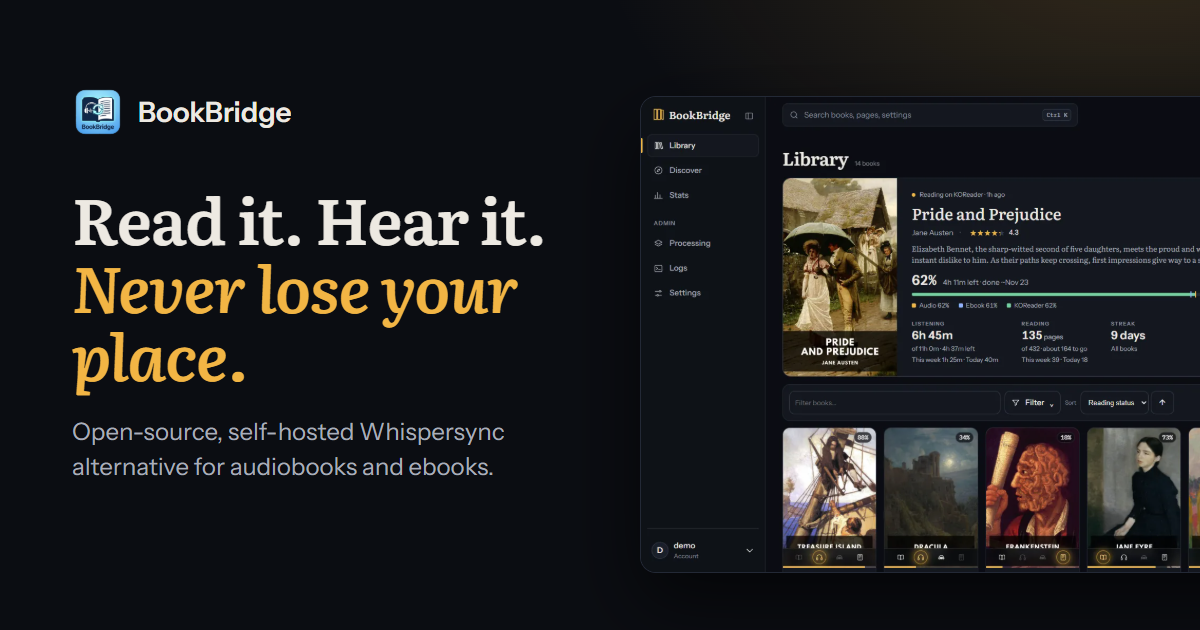
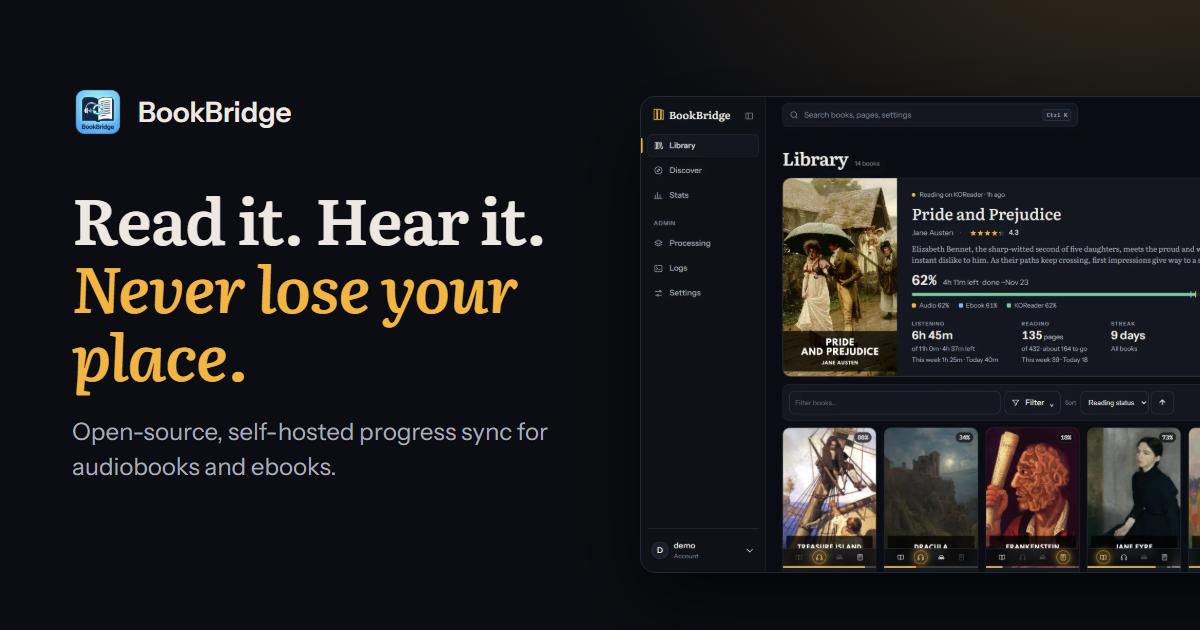
[Docs] Plain wording on the home and book journey pages; Whispersync named once with a trademark note

Changed region(s): [[0.0617, 0.6635, 0.4625, 0.754]]

diff --git a/overrides/home.html b/overrides/home.html
@@ -9,9 +9,9 @@
   <section class="bb-hero">
     <div class="bb-wrap bb-hero__grid">
       <div>
-        <p class="bb-kicker">Audiobooks and ebooks, in step</p>
+        <p class="bb-kicker">Audiobook and ebook progress sync</p>
         <h1 id="bookbridge">Read it. Hear it.<br><em>Never lose your place.</em></h1>
-        <p class="bb-lede">Switch between the audiobook and the ebook of the same book, across the apps you already use. BookBridge is an open-source, self-hosted alternative to Amazon's Whispersync.</p>
+        <p class="bb-lede">Switch between the audiobook and the ebook of the same book, across the apps you already use. Open source and self-hosted.</p>
         <div class="bb-cta">
           <a class="bb-btn bb-btn--primary" href="{{ 'getting-started/' | url }}">Get started {% include ".icons/material/arrow-right.svg" %}</a>
           <a class="bb-btn" href="{{ config.repo_url }}">{% include ".icons/material/github.svg" %} View on GitHub</a>
@@ -31,23 +31,23 @@
     <div class="bb-wrap">
       <div class="bb-head">
         <p class="bb-kicker">How it works</p>
-        <h2>Your place, carried from one app to the next.</h2>
+        <h2>Each linked app gets your latest position.</h2>
         <p>BookBridge lines up the audiobook with the text of its ebook, so a minute in one is a page in the other.</p>
       </div>
       <div class="bb-steps">
         <div class="bb-step">
           <span class="bb-step__icon">{% include ".icons/material/headphones.svg" %}</span>
-          <h3>Listen or read anywhere</h3>
+          <h3>Listen or read in a linked app</h3>
           <p>Play the audiobook in Audiobookshelf or BookOrbit, or read the ebook in KOReader, a Kobo or a web reader.</p>
         </div>
         <div class="bb-step">
           <span class="bb-step__icon">{% include ".icons/material/waveform.svg" %}</span>
-          <h3>BookBridge finds the spot</h3>
+          <h3>BookBridge finds the matching position</h3>
           <p>Its alignment map turns a timestamp into a place in the text, and a place in the text back into a timestamp.</p>
         </div>
         <div class="bb-step">
           <span class="bb-step__icon">{% include ".icons/material/book-open-page-variant.svg" %}</span>
-          <h3>Pick up in the other format</h3>
+          <h3>Continue in the other format</h3>
           <p>Every linked app gets the new position, so the next one you open is already where you stopped.</p>
         </div>
       </div>
@@ -72,7 +72,7 @@
         </svg>
         <figcaption>Built-in forced alignment, with Whisper, EPUB timing data and Storyteller transcripts as fallbacks.</figcaption>
       </figure>
-      <p class="bb-more"><a class="bb-btn" href="{{ 'book-journey/' | url }}">Follow a book from new to in sync {% include ".icons/material/arrow-right.svg" %}</a></p>
+      <p class="bb-more"><a class="bb-btn" href="{{ 'book-journey/' | url }}">How a new book gets synced {% include ".icons/material/arrow-right.svg" %}</a></p>
     </div>
   </section>
 
@@ -80,7 +80,7 @@
     <div class="bb-wrap">
       <div class="bb-head">
         <p class="bb-kicker">The dashboard</p>
-        <h2>A library worth opening.</h2>
+        <h2>Your library and reading progress.</h2>
         <p>Shown with a demo library of public-domain classics.</p>
       </div>
       <figure class="bb-show__hero">
@@ -112,7 +112,7 @@
     <div class="bb-wrap">
       <div class="bb-head">
         <p class="bb-kicker">What it does</p>
-        <h2>Everything your books need to stay in step.</h2>
+        <h2>Sync, alignment, highlights and more.</h2>
       </div>
       <div class="bb-cards">
         <div class="bb-card">
@@ -137,12 +137,12 @@
         </div>
         <div class="bb-card">
           <span class="bb-card__icon">{% include ".icons/material/compass-outline.svg" %}</span>
-          <h3>Discover pairs for you</h3>
+          <h3>Finds audiobook and ebook pairs</h3>
           <p>Discover scans your libraries for audiobook and ebook pairs, so you can review and link them in bulk.</p>
         </div>
         <div class="bb-card">
           <span class="bb-card__icon">{% include ".icons/material/account-group.svg" %}</span>
-          <h3>One server for the household</h3>
+          <h3>Multiple readers</h3>
           <p>Each reader signs in with their own app accounts and their own progress, even when two people share a book.</p>
         </div>
       </div>
@@ -153,7 +153,7 @@
     <div class="bb-wrap">
       <div class="bb-head">
         <p class="bb-kicker">Works with</p>
-        <h2>The apps you already use.</h2>
+        <h2>Supported apps.</h2>
         <p>Every one is optional. Ebook-only setups work too, keeping two reading apps on the same page.</p>
       </div>
       <div class="bb-apps">
@@ -180,15 +180,15 @@
   <section>
     <div class="bb-wrap bb-compare">
       <div>
-        <p class="bb-kicker">Why not Whispersync?</p>
-        <h2>Whispersync, for the books you already own.</h2>
+        <p class="bb-kicker">Your own files</p>
+        <h2>Works with the books you already own.</h2>
       </div>
       <div class="bb-compare__body">
-        <p>Amazon's Whispersync for Voice switches between a Kindle book and its Audible audiobook, when you bought both from Amazon and the editions match. BookBridge does the same job for your own files.</p>
+        <p>Amazon's Whispersync for Voice does this for a Kindle book and its Audible audiobook bought from Amazon. BookBridge does it for audiobook and ebook files you already have.</p>
         <ul style="margin-top: 1.2rem">
-          <li>{% include ".icons/material/check.svg" %}<span><b>Your files, any store.</b> Audiobooks and EPUBs from anywhere; the alignment comes from the audio and text themselves.</span></li>
-          <li>{% include ".icons/material/check.svg" %}<span><b>Your server.</b> Runs in Docker at home. No Amazon account, no cloud service in between.</span></li>
-          <li>{% include ".icons/material/check.svg" %}<span><b>Your readers.</b> KOReader, Kobo, web readers and audiobook apps, side by side.</span></li>
+          <li>{% include ".icons/material/check.svg" %}<span>Audiobooks and EPUBs from any store. The alignment is built from the audio and text themselves.</span></li>
+          <li>{% include ".icons/material/check.svg" %}<span>Runs on your own server in Docker, with no cloud service in between.</span></li>
+          <li>{% include ".icons/material/check.svg" %}<span>Works with KOReader, Kobo, web readers and audiobook apps.</span></li>
         </ul>
       </div>
     </div>
@@ -199,7 +199,7 @@
       <div>
         <div class="bb-head" style="margin-bottom: 1.6rem">
           <p class="bb-kicker">Install</p>
-          <h2>Up and running in minutes.</h2>
+          <h2>Installation.</h2>
         </div>
         <ol>
           <li><div><h3>Add it to Docker Compose</h3><p>One container, one data folder, and your ebook folder.</p></div></li>
@@ -225,8 +225,8 @@
 
   <section class="bb-final">
     <div class="bb-wrap">
-      <h2>Never lose your place again.</h2>
-      <p>Free, open source and yours to run.</p>
+      <h2>Free and open source.</h2>
+      <p>MIT licensed. Runs on your own server.</p>
       <div class="bb-cta">
         <a class="bb-btn bb-btn--primary" href="{{ 'getting-started/' | url }}">Get started {% include ".icons/material/arrow-right.svg" %}</a>
         <a class="bb-btn" href="{{ config.repo_url }}/releases">Releases</a>

diff --git a/scripts/readme_screenshots/og-card.html b/scripts/readme_screenshots/og-card.html
@@ -21,7 +21,7 @@
   <div class="copy">
     <div class="brand"><img src="../../static/icon-192.png" alt="">BookBridge</div>
     <h1>Read it. Hear it.<br><em>Never lose your place.</em></h1>
-    <p>Open-source, self-hosted Whispersync alternative for audiobooks and ebooks.</p>
+    <p>Open-source, self-hosted progress sync for audiobooks and ebooks.</p>
   </div>
   <img class="shot" src="../../docs/assets/site/library.webp" alt="">
 </body></html>

diff --git a/docs/stylesheets/extra.css b/docs/stylesheets/extra.css
@@ -355,7 +355,7 @@
   .bb-btn:hover { transform: none; }
 }
 
-/* From new book to in sync: the four-stop flow */
+/* How a new book gets synced: the four-stop flow */
 .md-typeset .bb-flow { display: grid; grid-template-columns: repeat(4, minmax(0, 1fr)); gap: 1.4rem; margin: 1.4em 0 0.8em; }
 .md-typeset .bb-flow__stop {
   position: relative; background: var(--bb-surface); border: 1px solid var(--bb-line);

diff --git a/docs/book-journey.md b/docs/book-journey.md
@@ -1,69 +1,69 @@
 ---
 hide:
   - toc
-description: "Follow a book from the moment you pair it to the moment every app is in step, including a missing half fetched for you."
+description: "What happens from pairing an audiobook with its ebook until every app shows the same position, including requesting a missing audiobook or ebook."
 ---
 
-# From new book to in sync
+# How a new book gets synced
 
-What happens between choosing a book and picking up your audiobook at the page you stopped reading.
+The steps from pairing an audiobook with its ebook to having both in sync.
 
 <div class="bb-flow" markdown>
 <div class="bb-flow__stop" markdown>
 :material-bookshelf:{ .bb-flow__icon }
 
-**Pick a pair**
+**Pair**
 
-An audiobook and the ebook that goes with it.
+An audiobook and its matching ebook.
 </div>
 <div class="bb-flow__stop" markdown>
 :material-timer-sand:{ .bb-flow__icon }
 
-**Wait your turn**
+**Queue**
 
-Books line up, one at a time, in the order you choose.
+Books are processed one at a time, in the order you choose.
 </div>
 <div class="bb-flow__stop" markdown>
 :material-waveform:{ .bb-flow__icon }
 
-**Line them up**
+**Align**
 
-Every minute of audio is matched to its place in the text.
+The audio is matched to its position in the text.
 </div>
 <div class="bb-flow__stop" markdown>
 :material-book-sync:{ .bb-flow__icon }
 
-**In sync**
+**Sync**
 
-Every app picks up where you left off.
+Each linked app gets your current position.
 </div>
 </div>
 
 <div class="bb-flow__side" markdown>
-:material-tray-arrow-down:{ .bb-flow__icon } **Missing half?** BookBridge fetches it from BookOrbit or Shelfmark, and it joins the line when it arrives.
+:material-tray-arrow-down:{ .bb-flow__icon } **Missing the audiobook or ebook?** BookBridge can request it from BookOrbit or Shelfmark and queues it when it arrives.
 </div>
 
-## Pick a pair
+## Pair
 
 Discover suggests audiobooks and ebooks that look like the same book. Add the ones you want to the queue, then press **Match All**. You can also search for any book yourself.
 
 ![Discover suggesting pairs, with the queue beside them](assets/guide/journey-pairs.webp){ .bb-shot loading=lazy }
 
-## Missing a half?
+## Request a missing audiobook or ebook
 
-Have the ebook but not the audiobook, or the other way round? Ask for it from Discover. BookBridge requests it from BookOrbit or Shelfmark, waits for it to land in your library, makes sure it is the right book and edition, and pairs it with your copy. From there it joins the line like any other book.
+If you have only the ebook or only the audiobook, you can request the other from Discover. BookBridge requests it from BookOrbit or Shelfmark, waits for it to land in your library, makes sure it is the right book and edition, and pairs it with your copy. It then goes into the queue like any other book.
 
 ![Asking for the missing audiobook of a book you already have](assets/guide/journey-get.webp){ .bb-shot loading=lazy width="440" }
 
-## Wait your turn
+## Queue
 
-**Processing** shows every book in line. BookBridge works on one book at a time so your server never gets swamped. Change the order whenever you like: move a waiting book up, down or straight to the front, and the one you want most is done next. A book with only an ebook or only an audiobook has nothing to line up, so it is ready almost straight away. If something goes wrong, BookBridge tries again later on its own.
+**Processing** lists every queued book. BookBridge works on one book at a time to limit the load on your server. You can reorder waiting books: move one up, down or to the front. A book with only an ebook or only an audiobook needs no alignment and is ready almost immediately. If a step fails, BookBridge retries it later.
 
 ![Processing: one book being worked on, two waiting, one finished](assets/guide/journey-processing.webp){ .bb-shot loading=lazy width="600" }
 
-## Line them up
+## Align
 
-BookBridge plays the audiobook against the ebook's text and notes where each word is spoken. That gives it a map from any minute of audio to the matching spot in the book, and back again.
+BookBridge compares the audiobook with the ebook's text and records where each word is spoken. The result is a map from any point in the audio to the matching position in the text, and back.
 
 <figure class="bb-align">
   <svg viewBox="0 0 640 150" role="img" aria-label="An audio waveform with its playback position linked to the matching line of ebook text">
@@ -108,15 +108,15 @@ BookBridge plays the audiobook against the ebook's text and notes where each wor
   <figcaption>A moment in the audiobook, tied to its line in the ebook.</figcaption>
 </figure>
 
-- **Fast match first.** BookBridge matches the sound of the narration straight to the words on the page. It runs on your server's own processor, with no graphics card or extra services needed.
-- **Listening as a backup.** If the book isn't in English, the narrator strays from the text, or the chapters are read in a different order, BookBridge writes down what it hears with Whisper and matches those words instead.
-- **No wrong pairs.** If the audiobook and ebook turn out to be different books, it stops and tells you instead of syncing you to the wrong place.
-- **A good neighbour.** It uses only the processor cores your server gives BookBridge, and at most eight, so everything else on the server keeps running smoothly. A long book can take a while; a transcription that is interrupted carries on from where it stopped.
+- **Forced alignment (default).** BookBridge matches the narration directly against the ebook text. It runs on your server's CPU and needs no GPU or extra services.
+- **Transcription (fallback).** For books not in English, narration that differs from the text, or chapters read in a different order, BookBridge transcribes the audio with Whisper and matches the transcript instead.
+- **Mismatch check.** If the audiobook and ebook are different books, BookBridge stops and reports it instead of syncing to the wrong position.
+- **CPU use.** Alignment uses only the CPU cores available to BookBridge, up to eight, so other services on the server are not starved. Long books can take a while; an interrupted transcription resumes where it stopped.
 
-## In sync
+## Sync
 
-Once the map is ready, the book is in sync. Read a chapter on your e-reader and your audiobook app is waiting at the same sentence, and the other way round. The book shows where you are in every app.
+Once the map is ready, the book syncs. After you read on your e-reader, your audiobook app resumes at the same sentence, and the other way round. The book drawer shows your position in each app.
 
 ![A book showing its position in each linked app](assets/site/book-drawer.webp){ .bb-shot loading=lazy }
 
-Ready to set it up? Start with [Install and first sync](getting-started.md).
+To set it up, see [Install and first sync](getting-started.md).

diff --git a/README.md b/README.md
@@ -6,7 +6,7 @@
 
 **Read it. Hear it. Never lose your place.**
 
-Switch between your audiobook and your ebook across the apps you already use.<br>An open-source, self-hosted alternative to Amazon's Whispersync.
+Switch between your audiobook and your ebook across the apps you already use.<br>Open source and self-hosted.
 
 [![Documentation](https://img.shields.io/badge/docs-live-blue)](https://cporcellijr.github.io/bookbridge/)
 [![License](https://img.shields.io/github/license/cporcellijr/bookbridge)](LICENSE)
@@ -22,7 +22,7 @@ Switch between your audiobook and your ebook across the apps you already use.<br
 
 Listen in Audiobookshelf on the drive home, then open the book in KOReader and it is already where you stopped. Read a few chapters before bed, and the audiobook picks up from there in the morning.
 
-BookBridge lines up the audio with the text itself, so it works with the audiobook and EPUB files you already own. It runs on your own server in Docker: no Amazon account and no cloud service in between. Ebook-only setups work too, keeping two or more reading apps on the same page.
+Amazon's Whispersync for Voice does this for a Kindle book and its Audible audiobook bought from Amazon. BookBridge lines up the audio with the text itself, so it works with the audiobook and EPUB files you already have. It runs on your own server in Docker, with no cloud service in between. Ebook-only setups work too, keeping two or more reading apps on the same page.
 
 ## What it does
 
@@ -44,13 +44,13 @@ Forced alignment matches each audiobook against its ebook on the CPU and finds e
 <tr>
 <td valign="top">
 
-**Works with the apps you already use**<br>
+**Works with your apps**<br>
 Audiobookshelf, KOReader, BookOrbit, Grimmory, Storyteller, Kavita, Calibre-Web Automated and BookFusion, with Hardcover and StoryGraph for tracking. Discover scans them for audiobook and ebook pairs you can link in bulk.
 
 </td>
 <td valign="top">
 
-**A library worth opening**<br>
+**Library and dashboard**<br>
 An optional card for the book you are reading now, with its synopsis, listening and reading stats and your streak. Browse as Cards, Face-out shelves, Spine shelves or List, in Day or Night, or keep the Classic interface.
 
 </td>
@@ -64,7 +64,7 @@ With the Bridge Sync KOReader plugin, highlights, notes, reading status and read
 </td>
 <td valign="top">
 
-**One server for the whole household**<br>
+**Multiple readers**<br>
 Each reader signs in with their own service accounts and their own progress, and sees only the books they are reading, even when two people share a book.
 
 </td>
@@ -221,3 +221,5 @@ BookBridge began as a fork of [abs-kosync-bridge](https://github.com/J-Lich/abs-
 ## License
 
 Released under the [MIT License](LICENSE).
+
+Whispersync, Kindle and Audible are trademarks of Amazon.com, Inc. or its affiliates. BookBridge is not affiliated with or endorsed by Amazon.

diff --git a/docs/index.md b/docs/index.md
@@ -1,7 +1,7 @@
 ---
 template: home.html
-title: "BookBridge: self-hosted Whispersync alternative for audiobooks and ebooks"
-description: "BookBridge is an open-source, self-hosted Whispersync alternative: switch between your audiobook and your ebook without losing your place, across Audiobookshelf, KOReader, Storyteller, BookOrbit and more."
+title: "BookBridge: self-hosted audiobook and ebook progress sync"
+description: "BookBridge is open-source, self-hosted audiobook and ebook progress sync: switch between your audiobook and your ebook without losing your place, across Audiobookshelf, KOReader, Storyteller, BookOrbit and more."
 hide:
   - navigation
   - toc
@@ -9,6 +9,6 @@ hide:
 
 # BookBridge
 
-Read it. Hear it. Never lose your place. BookBridge switches between the audiobook and the ebook of the same book, across the apps you already use: an open-source, self-hosted alternative to Amazon's Whispersync.
+Read it. Hear it. Never lose your place. BookBridge switches between the audiobook and the ebook of the same book, across the apps you already use. It is open source and self-hosted.
 
 Start with [Getting Started](getting-started.md), see [How BookBridge works](how-it-works.md), or browse the [Configuration](configuration.md) reference.

diff --git a/docs/how-it-works.md b/docs/how-it-works.md
@@ -4,7 +4,7 @@ description: "How BookBridge keeps audiobook and ebook positions in sync: what y
 
 # How BookBridge works
 
-For the short, picture-led version, see [From new book to in sync](book-journey.md).
+For the short, picture-led version, see [How a new book gets synced](book-journey.md).
 
 BookBridge watches where you are in each app, picks the most trustworthy current position, translates it between audio time and ebook text using its own alignment map, and writes it back to every other app linked to that book.
 
